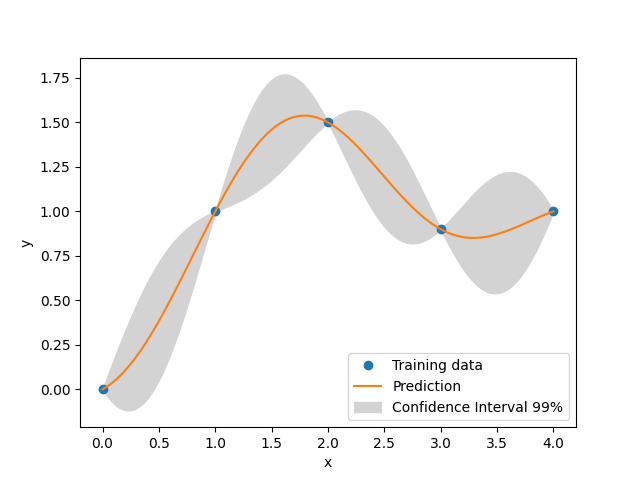
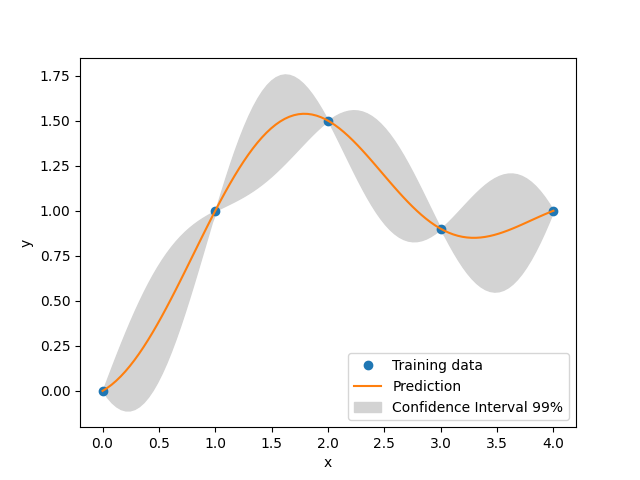
modify theta0

diff --git a/smt/surrogate_models/tests/test_surrogate_model_examples.py b/smt/surrogate_models/tests/test_surrogate_model_examples.py
@@ -194,7 +194,7 @@ class Test(unittest.TestCase):
         xt = np.array([0.0, 1.0, 2.0, 3.0, 4.0])
         yt = np.array([0.0, 1.0, 1.5, 0.9, 1.0])
 
-        sm = KRG(theta0=[1e-2])
+        sm = KRG(theta0=[1])
         sm.set_training_values(xt, yt)
         sm.train()
 
@@ -242,7 +242,7 @@ class Test(unittest.TestCase):
         # (ENUM, 2) means x6 & x7 are 2 levels of the same categorical variable
 
         sm = MixedIntegerSurrogateModel(
-            xtypes=[INT], xlimits=[[0, 4]], surrogate=KRG(theta0=[1e-2])
+            xtypes=[INT], xlimits=[[0, 4]], surrogate=KRG(theta0=[1])
         )
         sm.set_training_values(xt, yt)
         sm.train()

diff --git a/doc/_src_docs/surrogate_models/krg.rst b/doc/_src_docs/surrogate_models/krg.rst
@@ -68,6 +68,9 @@ Implementation Note: Mixed variables handling is available for all Kriging model
 Usage
 -----
 
+Example 1
+^^^^^^^^^^^^^^^^^^^^^^^^^^^^^^
+
 .. code-block:: python
 
   import numpy as np
@@ -78,7 +81,7 @@ Usage
   xt = np.array([0.0, 1.0, 2.0, 3.0, 4.0])
   yt = np.array([0.0, 1.0, 1.5, 0.9, 1.0])
   
-  sm = KRG(theta0=[1e-2])
+  sm = KRG(theta0=[1])
   sm.set_training_values(xt, yt)
   sm.train()
   
@@ -125,7 +128,7 @@ Usage
    Training
      
      Training ...
-     Training - done. Time (sec):  0.0029924
+     Training - done. Time (sec):  0.0029845
   ___________________________________________________________________________
      
    Evaluation
@@ -153,8 +156,8 @@ Usage
   :scale: 80 %
   :align: center
 
-Usage with mixed variables
---------------------------
+Example 2 with mixed variables
+^^^^^^^^^^^^^^^^^^^^^^^^^^^^^^
 
 .. code-block:: python
 
@@ -174,7 +177,7 @@ Usage with mixed variables
   # (ENUM, 2) means x6 & x7 are 2 levels of the same categorical variable
   
   sm = MixedIntegerSurrogateModel(
-      xtypes=[INT], xlimits=[[0, 4]], surrogate=KRG(theta0=[1e-2])
+      xtypes=[INT], xlimits=[[0, 4]], surrogate=KRG(theta0=[1])
   )
   sm.set_training_values(xt, yt)
   sm.train()
